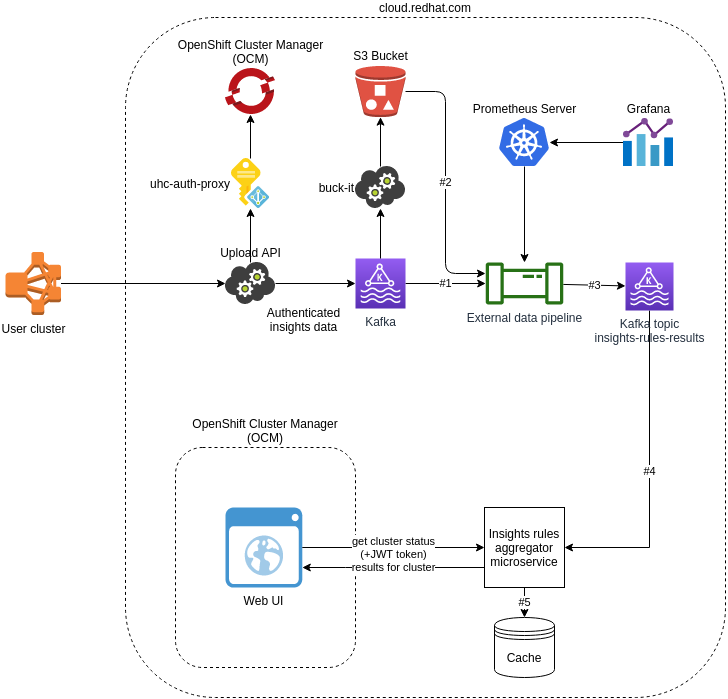
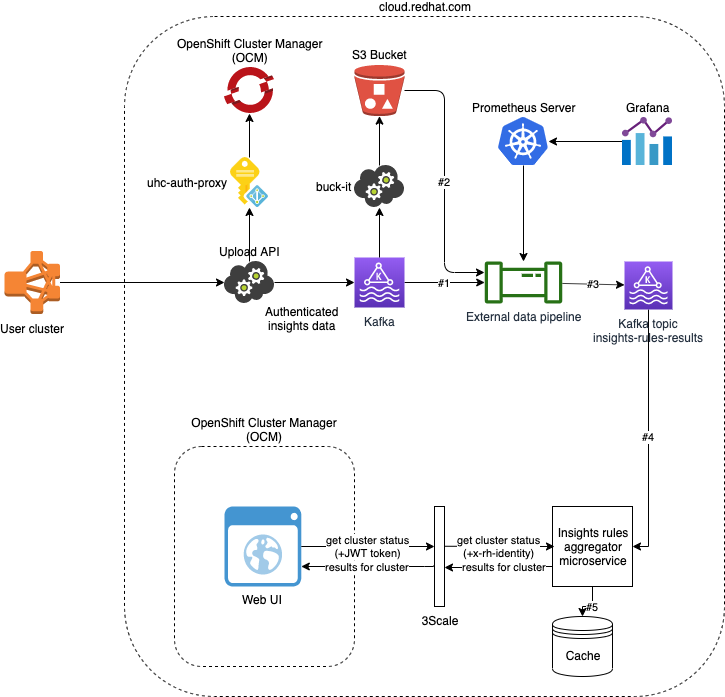
Documented auth mechanism

diff --git a/README.md b/README.md
@@ -235,6 +235,35 @@ Currently, the following metrics are exposed:
 
 Additionally it is possible to consume all metrics provided by Go runtime. There metrics start with `go_` and `process_` prefixes.
 
+## Authentication
+
+Authentication is working through `x-rh-identity` token which is provided by 3scale. `x-rh-identity` is base64 encoded JSON, that includes data about user and organization, like:
+```JSON
+{
+  "identity": {
+    "account_number": "0369233",
+    "type": "User",
+    "user": {
+      "username": "jdoe",
+      "email": "jdoe@acme.com",
+      "first_name": "John",
+      "last_name": "Doe",
+      "is_active": true,
+      "is_org_admin": false,
+      "is_internal": false,
+      "locale": "en_US"
+    },
+    "internal": {
+      "org_id": "3340851",
+      "auth_type": "basic-auth",
+      "auth_time": 6300
+    }
+  }
+}
+```
+
+If aggregator didn't get identity token or got invalid one, then it returns error with status code `403` - Forbidden.
+
 ## Contribution
 
 Please look into document [CONTRIBUTING.md](CONTRIBUTING.md) that contains all information about how to contribute to this project.
